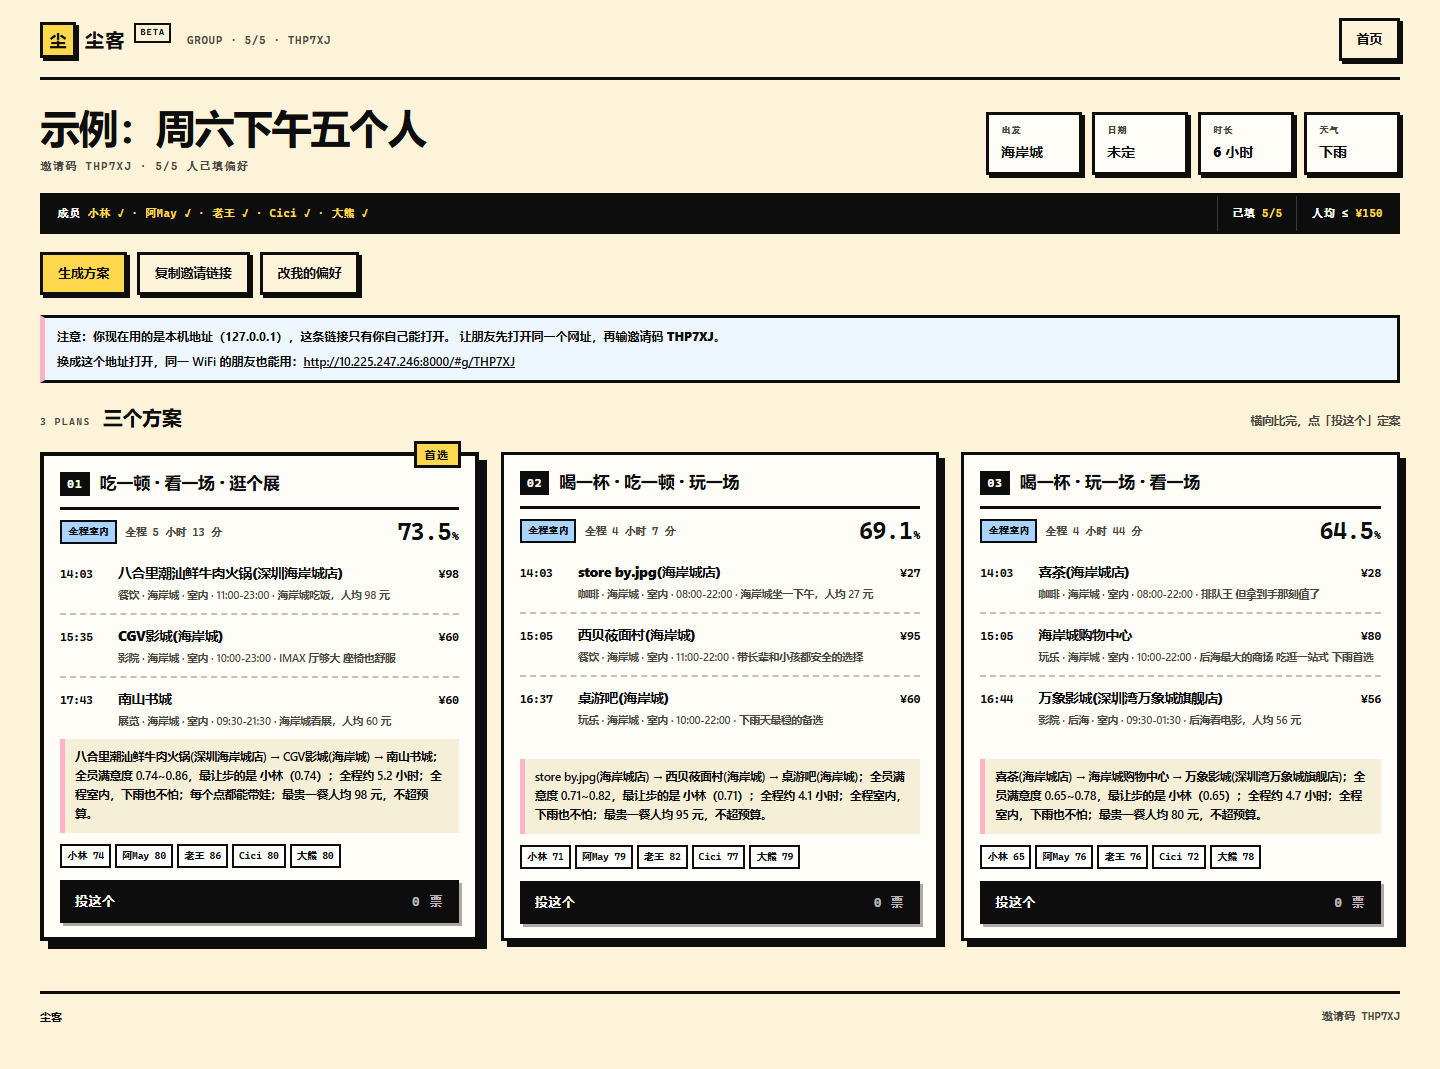
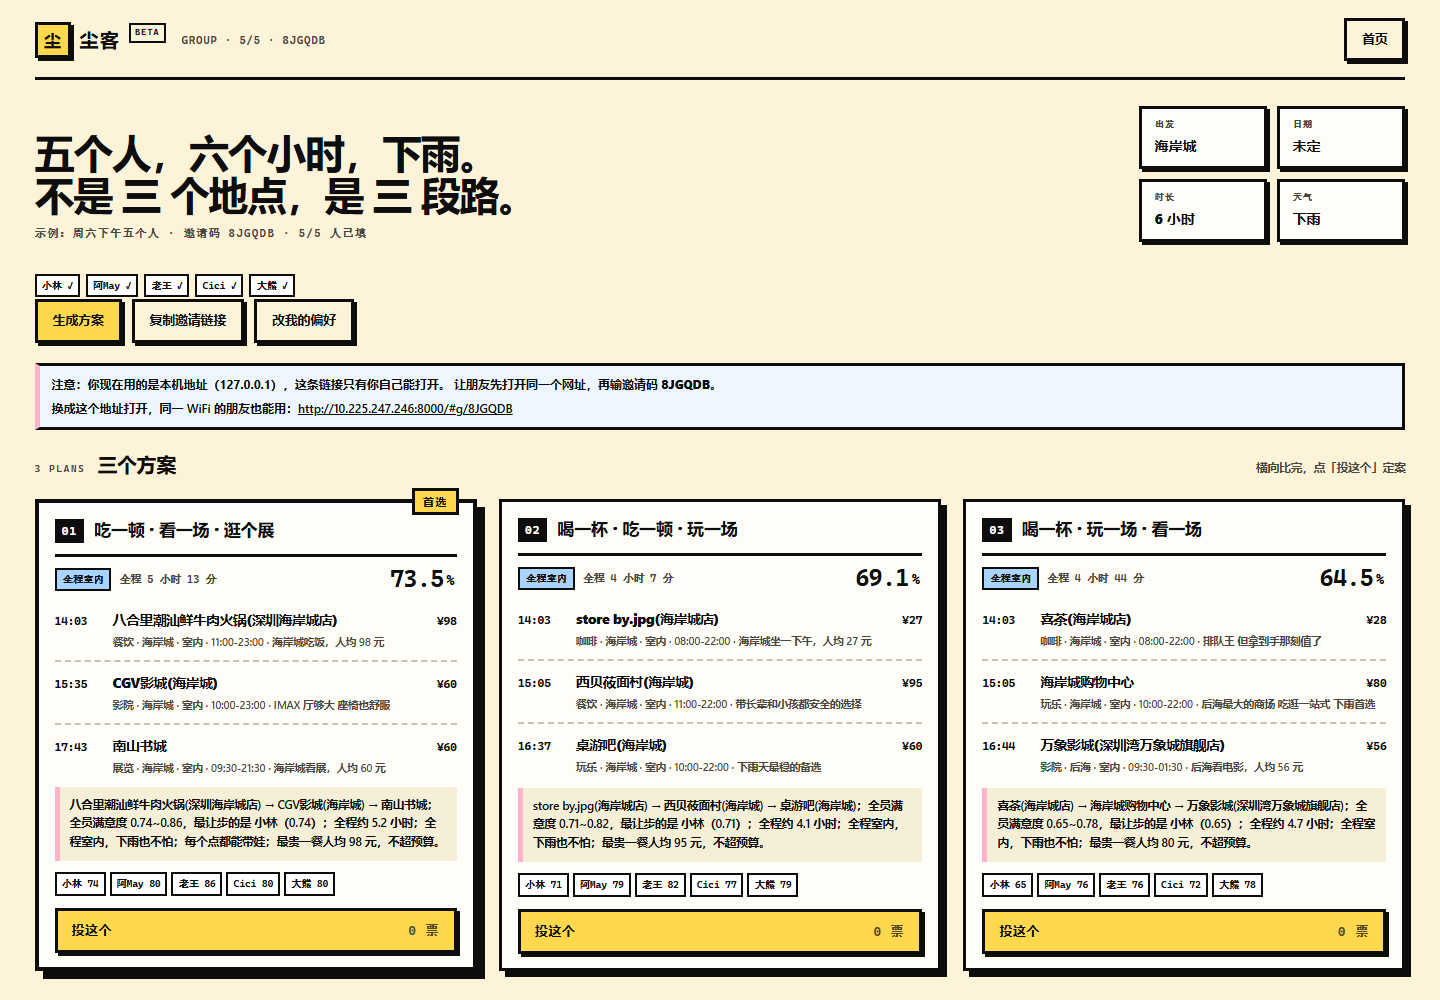
feat(web): 局页首屏改成一句话陈述，投票按钮去掉黑底，宽屏不再留白
- 首屏把局名换成人话标题：五个人 / 六个小时 / 下雨，第二句点出三套走法
- 四格信息改成 2×2；成员从黑底跑马灯改成一排 chip
- 投票按钮由黑底改成黄底；百分比放大到 14px 不再被边框吃掉
- 页面容器去掉 1600px 上限，宽屏铺满，两侧留白交给 clamp 内边距

diff --git a/web/index.html b/web/index.html
@@ -28,7 +28,7 @@
     font: 13.5px/1.55 -apple-system, BlinkMacSystemFont, "Segoe UI", "PingFang SC", "Microsoft YaHei", system-ui, sans-serif;
     -webkit-font-smoothing: antialiased;
   }
-  .shell { max-width: 1600px; margin: 0 auto; padding: 0 40px 40px; }
+  .shell { max-width: none; margin: 0 auto; padding: 0 clamp(18px, 2.4vw, 56px) 40px; }
   .mono { font-family: "Cascadia Mono", ui-monospace, Consolas, monospace; font-variant-numeric: tabular-nums; }
 
   /* ── 顶栏 ─────────────────────────────────────── */
@@ -105,7 +105,8 @@
   .group-hero h1 { font-size: 40px; line-height: 1.04; font-weight: 900; letter-spacing: -.035em; margin: 0; }
   .group-hero .code { font-family: "Cascadia Mono", ui-monospace, Consolas, monospace; font-size: 11px;
     font-weight: 700; letter-spacing: .12em; color: var(--muted); margin-top: 10px; }
-  .tiles { display: grid; grid-template-columns: repeat(4, minmax(96px, auto)); gap: 10px; }
+  .tiles { display: grid; grid-template-columns: repeat(2, minmax(128px, 1fr)); gap: 10px; }
+  .members-line { display: flex; flex-wrap: wrap; gap: 6px; margin: 14px 0 2px; }
   .tile { border: var(--bw) solid var(--ink); background: var(--card); padding: 9px 12px; box-shadow: 3px 3px 0 var(--ink); }
   .tile .k { font-family: "Cascadia Mono", ui-monospace, Consolas, monospace; font-size: 9px; font-weight: 700;
     text-transform: uppercase; letter-spacing: .1em; color: var(--muted); }
@@ -151,8 +152,9 @@
   .plan .sub { display: flex; align-items: center; gap: 8px; padding: 10px 0 2px; font-size: 11px; font-weight: 700; }
   .plan .sub .len { font-family: "Cascadia Mono", ui-monospace, Consolas, monospace; font-size: 10.5px; color: var(--muted); }
   .plan .sub .score { margin-left: auto; font-family: "Cascadia Mono", ui-monospace, Consolas, monospace;
-    font-size: 24px; font-weight: 900; letter-spacing: -.03em; white-space: nowrap; line-height: 1; }
-  .plan .sub .score i { font-style: normal; font-size: 12px; font-weight: 800; letter-spacing: 0; margin-left: 1px; }
+    font-size: 24px; font-weight: 900; letter-spacing: -.03em; white-space: nowrap; line-height: 1;
+    flex: none; padding-right: 2px; }
+  .plan .sub .score i { font-style: normal; font-size: 14px; font-weight: 800; letter-spacing: .02em; margin-left: 3px; vertical-align: 2px; }
 
   .timeline { list-style: none; margin: 6px 0 0; padding: 0; }
   .timeline li { display: grid; grid-template-columns: 48px 1fr auto; gap: 0 10px; align-items: baseline;
@@ -174,10 +176,10 @@
   .m.low { background: var(--pink); }
   .vote-row { display: flex; flex-direction: column; gap: 6px; }
   .vote-row button { width: 100%; display: flex; align-items: center; justify-content: space-between;
-    background: var(--ink); color: var(--card); font-size: 12.5px; font-weight: 900; letter-spacing: .08em;
-    padding: 9px 12px; box-shadow: 3px 3px 0 rgba(13,13,13,.35); }
-  .vote-row button:hover:not(:disabled) { background: var(--yellow); color: var(--ink); }
-  .vote-row button.mine { background: var(--yellow); color: var(--ink); }
+    background: var(--yellow); color: var(--ink); font-size: 12.5px; font-weight: 900; letter-spacing: .08em;
+    padding: 10px 14px; box-shadow: 3px 3px 0 var(--ink); }
+  .vote-row button:hover:not(:disabled) { background: #ffe27a; }
+  .vote-row button.mine { background: var(--card); letter-spacing: .04em; }
   .vote-row .count { font-family: "Cascadia Mono", ui-monospace, Consolas, monospace; font-size: 10.5px; font-weight: 700; color: var(--muted); }
 
   /* ── 偏好表单 ─────────────────────────────────── */
@@ -923,11 +925,19 @@ async function renderGroupView() {
   const notesHtml = ((result && result.notes) || [])
     .map((n) => `<div class="notes">${esc(n)}</div>`).join("");
 
+  const CN = ["零", "一", "两", "三", "四", "五", "六", "七", "八", "九", "十", "十一", "十二"];
+  const cn = (n) => CN[n] || String(n);
+  const weatherWord = { rain: "下雨", storm: "台风", hot: "高温", clear: "晴天" }[group.weather] || "天气还没定";
+  const hours = Math.round(group.window_minutes / 60);
+  const headline = plans.length
+    ? `${cn(group.members.length)}个人，${cn(hours)}个小时，${weatherWord}。<br>不是 ${cn(plans.length)} 个地点，是 ${cn(plans.length)} 段路。`
+    : `${cn(group.members.length)}个人，${cn(hours)}个小时，${weatherWord}。<br>还没有方案，点「生成方案」看看。`;
+
   $app.innerHTML = `
     <div class="group-hero">
       <div>
-        <h1>${esc(group.name)}</h1>
-        <div class="code">邀请码 ${esc(group.code)} · ${filled}/${group.members.length} 人已填偏好</div>
+        <h1>${headline}</h1>
+        <div class="code">${esc(group.name)} · 邀请码 ${esc(group.code)} · ${filled}/${group.members.length} 人已填</div>
       </div>
       <div class="tiles">
         <div class="tile"><div class="k">出发</div><div class="v">${esc(group.origin_area)}</div></div>
@@ -937,11 +947,8 @@ async function renderGroupView() {
       </div>
     </div>
 
-    <div class="ticker">
-      <span>成员 <b>${memberLine}</b></span>
-      <span class="mid">已填 <b>${filled}/${group.members.length}</b></span>
-      <span>${group.budget ? "人均 ≤ <b>¥" + group.budget + "</b>" : "预算 不限"}</span>
-    </div>
+    <div class="members-line">${group.members.map((m) =>
+      `<span class="m${m.filled ? "" : " low"}">${esc(m.nickname)}${m.filled ? " ✓" : " · 没填"}</span>`).join("")}</div>
 
     <div class="acts-row">
       <button class="primary" id="btn-generate">${filled ? "生成方案" : (state.memberId ? "去填偏好" : "加入并填偏好")}</button>
